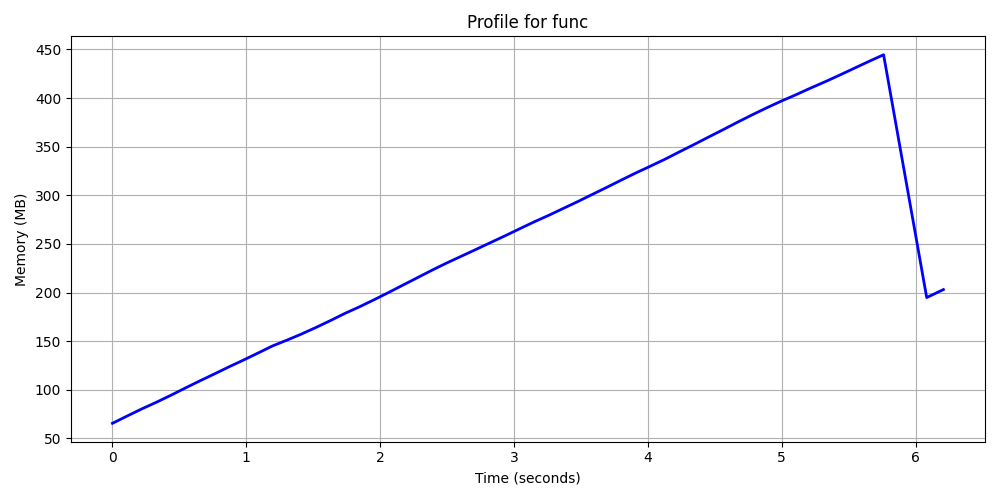
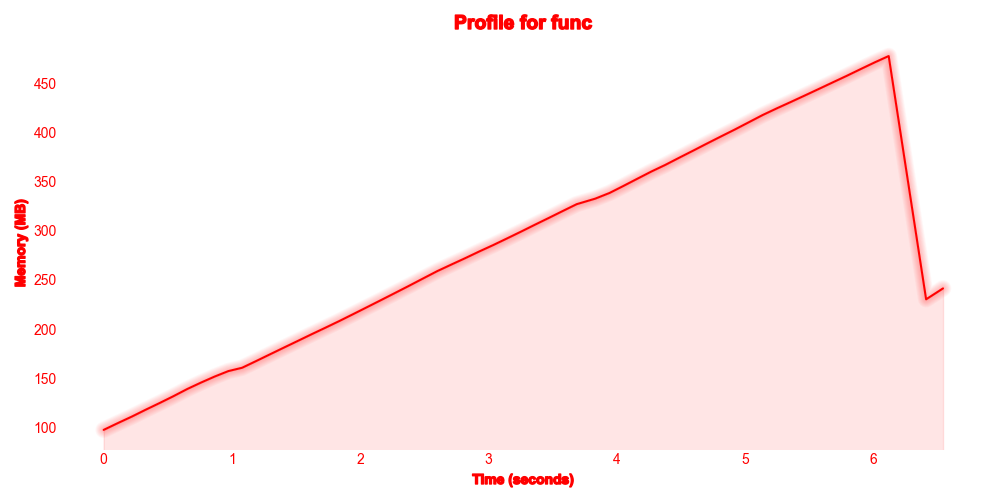
changing chart aesthetics

diff --git a/profile_this/core.py b/profile_this/core.py
@@ -6,10 +6,12 @@ from functools import wraps
 from os import getpid
 from threading import Thread
 from time import sleep, time
-from typing import Tuple
 
+import matplotlib.patheffects as path_effects
 import matplotlib.pyplot as plt
+import mplcyberpunk
 from psutil import Process
+from seaborn import lineplot
 
 
 class ProfileThis:
@@ -36,7 +38,9 @@ class ProfileThis:
         self.clear()
 
     def _log(self):
-        """Snapshots memory allocation and runtime according to some time interval."""
+        """Snapshots memory allocation and runtime according to some
+        time interval.
+        """
 
         process = Process(getpid())
         start_time = time()
@@ -68,13 +72,7 @@ class ProfileThis:
         self.memory_mb = []
         self.running = False
 
-    def plot(
-        self,
-        title: str,
-        path: str,
-        color: str | None = None,
-        figsize: Tuple[int, int] | None = None,
-    ):
+    def plot(self, title: str, path: str):
         """Plots runtime and memory allocation.
 
         Parameters
@@ -83,45 +81,63 @@ class ProfileThis:
             The title of the plot.
         path : str
             Where to save the plot.
-        color : str | None, optional
-            The color of the line on the plot. Default is blue.
-        figsize : Tuple[int, int] | None, optional
-            The size of the ploat. Default is (10, 5).
         """
 
-        color = "blue" if color is None else color
-        figsize = (10, 5) if figsize is None else figsize
-        plt.figure(figsize=figsize)
-        plt.plot(self.timestamps, self.memory_mb, linewidth=2, color=color)
-        plt.xlabel("Time (seconds)")
-        plt.ylabel("Memory (MB)")
-        plt.title(title)
-        plt.grid(True)
+        color = "#FF0000FF"
+        plt.style.use("cyberpunk")
+        plt.rcParams.update(
+            {
+                "figure.facecolor": "none",
+                "axes.facecolor": "none",
+                "savefig.transparent": True,
+                "text.color": color,
+                "axes.labelcolor": color,
+                "xtick.color": color,
+                "ytick.color": color,
+                "axes.edgecolor": color,
+                "grid.color": "none",
+            }
+        )
+        plt.figure(figsize=(10, 5), dpi=100)
+        lineplot(x=self.timestamps, y=self.memory_mb, color=color)
+        plt.title(title, weight="bold", fontsize=14).set_path_effects(
+            [
+                path_effects.Stroke(linewidth=1, foreground="red"),
+                path_effects.Normal(),
+            ]
+        )
+        plt.xlabel(
+            "Time (seconds)", weight="bold", fontsize=10
+        ).set_path_effects(
+            [
+                path_effects.Stroke(linewidth=1, foreground="red"),
+                path_effects.Normal(),
+            ]
+        )
+        plt.ylabel("Memory (MB)", weight="bold", fontsize=10).set_path_effects(
+            [
+                path_effects.Stroke(linewidth=1, foreground="red"),
+                path_effects.Normal(),
+            ]
+        )
+        plt.xticks(fontsize=10)
+        plt.yticks(fontsize=10)
         plt.tight_layout()
+        mplcyberpunk.add_glow_effects()
         plt.savefig(path)
 
 
-def profilethis(
-    title: str,
-    path: str,
-    color: str | None = None,
-    figsize: Tuple[int, int] | None = None,
-    interval: float | None = None,
-):
+def profilethis(title: str, path: str, interval: float | None = None):
     """Decorator that plots runtime and memory allocation.
 
     Parameters
     ----------
-    interval : float, optional
-        How often to snapshot memory. Default is 0.1.    
     title : str
         The title of the plot.
     path : str
         Where to save the plot.
-    color : str | None, optional
-        The color of the line on the plot. Default is blue.
-    figsize : Tuple[int, int] | None, optional
-        The size of the ploat. Default is (10, 5).
+    interval : float, optional
+        How often to snapshot memory. Default is 0.1.
     """
 
     def decorator(func):
@@ -132,9 +148,7 @@ def profilethis(
         ):
             with ProfileThis(interval=interval) as profiler:
                 result = func(*args, **kwargs)
-                profiler.plot(
-                    title=title, path=path, color=color, figsize=figsize
-                )
+                profiler.plot(title=title, path=path)
                 return result
 
         return wrapper

diff --git a/profile_this/__init__.py b/profile_this/__init__.py
@@ -2,4 +2,4 @@ from .core import ProfileThis, profilethis
 
 __all__ = ["ProfileThis", "profilethis"]
 __author__ = "Mike Letts"
-__version__ = "0.1.7"
+__version__ = "0.1.8"
